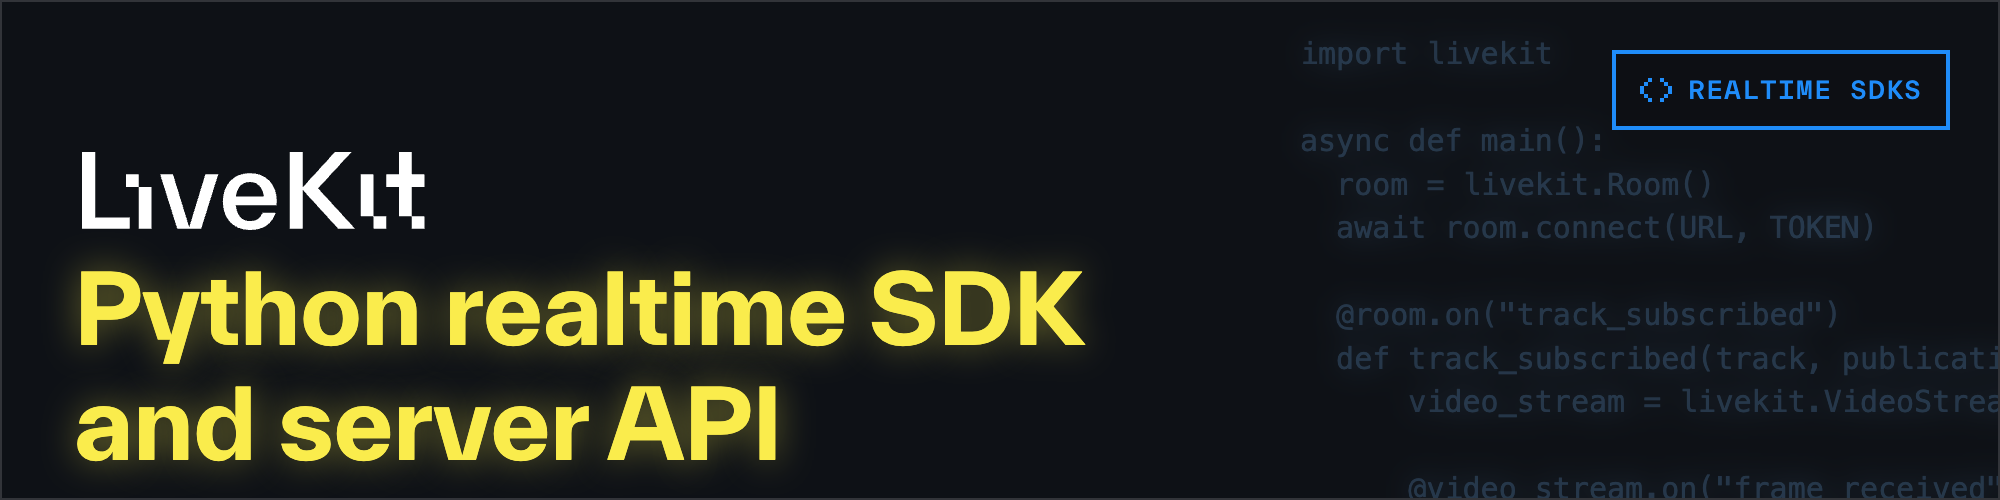
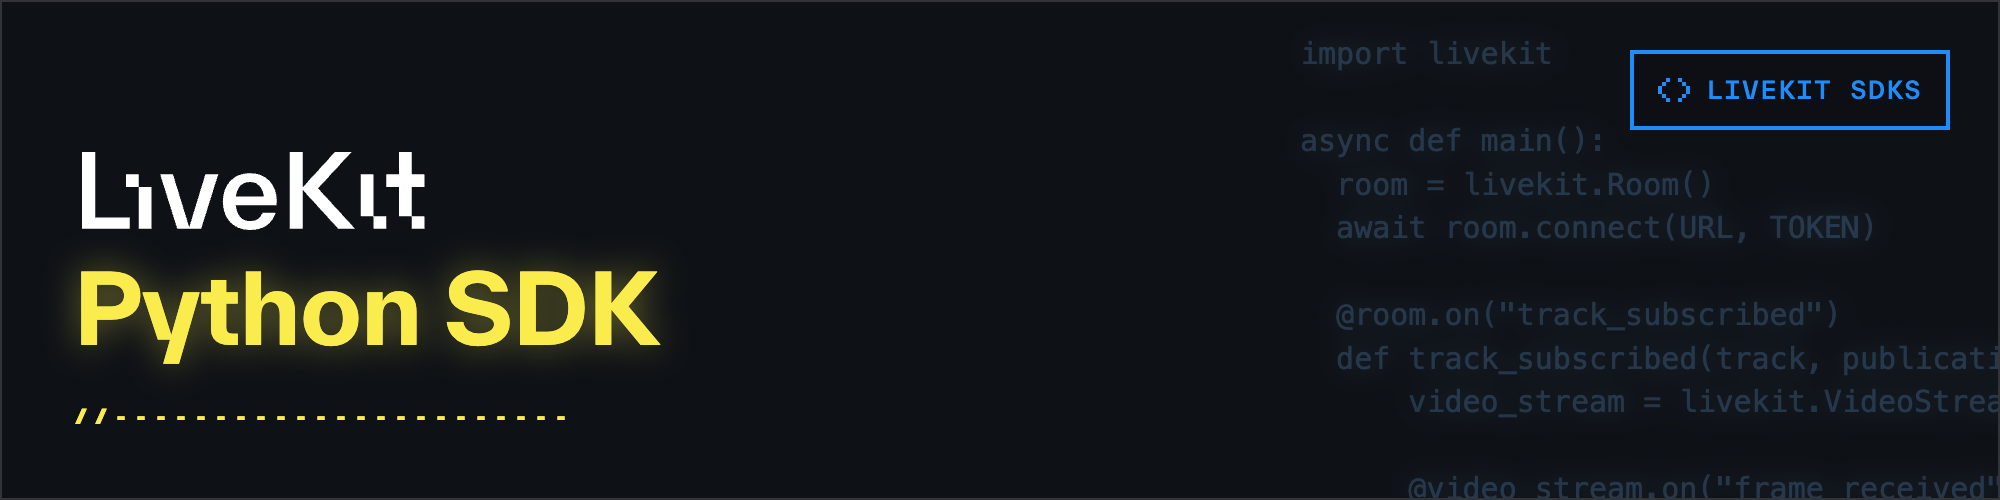
update readme

Changed region(s): [[0.217, 0.51, 0.558, 0.72], [0.031, 0.75, 0.403, 0.93], [0.806, 0.09, 0.93, 0.27]]

diff --git a/README.md b/README.md
@@ -13,9 +13,7 @@
 # 📹🎙🐍 Python SDK for LiveKit
 
 <!--BEGIN_DESCRIPTION-->
-
 Use this SDK to add realtime video, audio and data features to your Python app. By connecting to <a href="https://livekit.io/">LiveKit</a> Cloud or a self-hosted server, you can quickly build applications such as multi-modal AI, live streaming, or video calls with just a few lines of code.
-
 <!--END_DESCRIPTION-->
 
 This repo contains two packages
@@ -210,14 +208,13 @@ You may throw errors of the type `RpcError` with a string `message` in an RPC me
 Please join us on [Slack](https://livekit.io/join-slack) to get help from our devs / community members. We welcome your contributions(PRs) and details can be discussed there.
 
 <!--BEGIN_REPO_NAV-->
-
 <br/><table>
-
 <thead><tr><th colspan="2">LiveKit Ecosystem</th></tr></thead>
 <tbody>
-<tr><td>Realtime SDKs</td><td><a href="https://github.com/livekit/components-js">React Components</a> · <a href="https://github.com/livekit/client-sdk-js">Browser</a> · <a href="https://github.com/livekit/components-swift">Swift Components</a> · <a href="https://github.com/livekit/client-sdk-swift">iOS/macOS/visionOS</a> · <a href="https://github.com/livekit/client-sdk-android">Android</a> · <a href="https://github.com/livekit/client-sdk-flutter">Flutter</a> · <a href="https://github.com/livekit/client-sdk-react-native">React Native</a> · <a href="https://github.com/livekit/rust-sdks">Rust</a> · <a href="https://github.com/livekit/node-sdks">Node.js</a> · <b>Python</b> · <a href="https://github.com/livekit/client-sdk-unity-web">Unity (web)</a> · <a href="https://github.com/livekit/client-sdk-unity">Unity (beta)</a></td></tr><tr></tr>
-<tr><td>Server APIs</td><td><a href="https://github.com/livekit/node-sdks">Node.js</a> · <a href="https://github.com/livekit/server-sdk-go">Golang</a> · <a href="https://github.com/livekit/server-sdk-ruby">Ruby</a> · <a href="https://github.com/livekit/server-sdk-kotlin">Java/Kotlin</a> · <b>Python</b> · <a href="https://github.com/livekit/rust-sdks">Rust</a> · <a href="https://github.com/agence104/livekit-server-sdk-php">PHP (community)</a></td></tr><tr></tr>
-<tr><td>Agents Frameworks</td><td><a href="https://github.com/livekit/agents">Python</a> · <a href="https://github.com/livekit/agent-playground">Playground</a></td></tr><tr></tr>
+<tr><td>LiveKit SDKs</td><td><a href="https://github.com/livekit/client-sdk-js">Browser</a> · <a href="https://github.com/livekit/client-sdk-swift">iOS/macOS/visionOS</a> · <a href="https://github.com/livekit/client-sdk-android">Android</a> · <a href="https://github.com/livekit/client-sdk-flutter">Flutter</a> · <a href="https://github.com/livekit/client-sdk-react-native">React Native</a> · <a href="https://github.com/livekit/rust-sdks">Rust</a> · <a href="https://github.com/livekit/node-sdks">Node.js</a> · <b>Python</b> · <a href="https://github.com/livekit/client-sdk-unity">Unity</a> · <a href="https://github.com/livekit/client-sdk-unity-web">Unity (WebGL)</a></td></tr><tr></tr>
+<tr><td>Server APIs</td><td><a href="https://github.com/livekit/node-sdks">Node.js</a> · <a href="https://github.com/livekit/server-sdk-go">Golang</a> · <a href="https://github.com/livekit/server-sdk-ruby">Ruby</a> · <a href="https://github.com/livekit/server-sdk-kotlin">Java/Kotlin</a> · <b>Python</b> · <a href="https://github.com/livekit/rust-sdks">Rust</a> · <a href="https://github.com/agence104/livekit-server-sdk-php">PHP (community)</a> · <a href="https://github.com/pabloFuente/livekit-server-sdk-dotnet">.NET (community)</a></td></tr><tr></tr>
+<tr><td>UI Components</td><td><a href="https://github.com/livekit/components-js">React</a> · <a href="https://github.com/livekit/components-android">Android Compose</a> · <a href="https://github.com/livekit/components-swift">SwiftUI</a></td></tr><tr></tr>
+<tr><td>Agents Frameworks</td><td><a href="https://github.com/livekit/agents">Python</a> · <a href="https://github.com/livekit/agents-js">Node.js</a> · <a href="https://github.com/livekit/agent-playground">Playground</a></td></tr><tr></tr>
 <tr><td>Services</td><td><a href="https://github.com/livekit/livekit">LiveKit server</a> · <a href="https://github.com/livekit/egress">Egress</a> · <a href="https://github.com/livekit/ingress">Ingress</a> · <a href="https://github.com/livekit/sip">SIP</a></td></tr><tr></tr>
 <tr><td>Resources</td><td><a href="https://docs.livekit.io">Docs</a> · <a href="https://github.com/livekit-examples">Example apps</a> · <a href="https://livekit.io/cloud">Cloud</a> · <a href="https://docs.livekit.io/home/self-hosting/deployment">Self-hosting</a> · <a href="https://github.com/livekit/livekit-cli">CLI</a></td></tr>
 </tbody>
